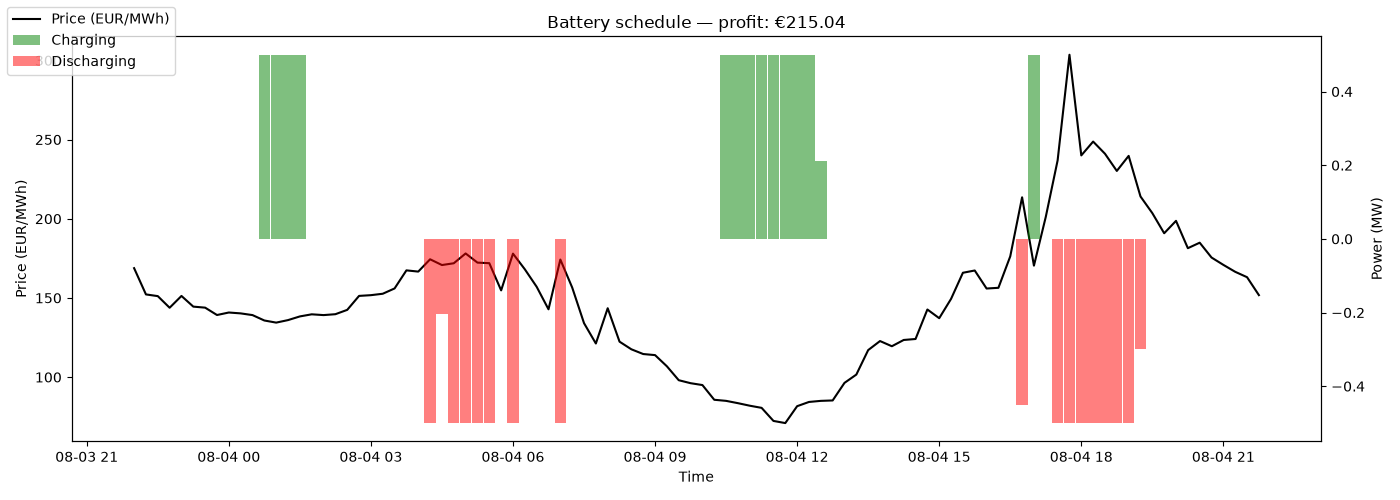
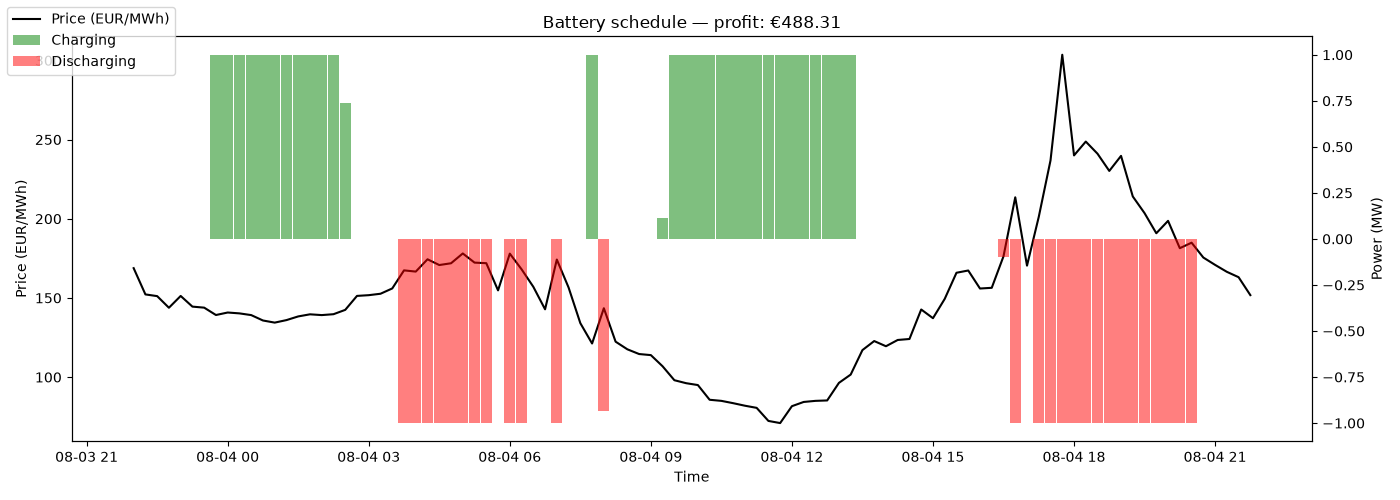
Fix start-of-day discharge, finalize battery optimization example

diff --git a/src/optimize.py b/src/optimize.py
@@ -48,6 +48,15 @@ def optimize_battery(
         A_ub.append(-row)
         b_ub.append(soc0)
 
+    # End-of-day state of charge must be >= starting state of charge,
+    # so the battery can't just drain its initial reserve for free profit —
+    # it has to earn back any energy it discharges within the same day.
+    final_row = np.zeros(n)
+    final_row[:T] = eta_ch * interval_hours
+    final_row[T:] = -interval_hours / eta_dis
+    A_ub.append(-final_row)
+    b_ub.append(0)
+
     result = linprog(
         c_obj,
         A_ub=np.array(A_ub),
@@ -73,10 +82,18 @@ if __name__ == "__main__":
 
     prices = df["price_eur_mwh"].to_numpy()
 
+    # Battery specs matching a single Tesla Megapack 2 unit
+    # (3.9 MWh capacity, ~1 MW power, ~93.7% round-trip efficiency)
+    eta_round_trip = 0.937
+    eta_one_way = eta_round_trip ** 0.5   # split evenly between charge/discharge legs
+
     charge, discharge, profit = optimize_battery(
         prices,
-        capacity_mwh=1.0,      # 1 MWh battery
-        max_power_mw=0.5,      # can charge/discharge at 0.5 MW max
+        capacity_mwh=3.9,
+        max_power_mw=1.0,
+        eta_ch=eta_one_way,
+        eta_dis=eta_one_way,
+        soc0_fraction=0.0,   # start empty, nothing to discharge until battery has charged something
     )
 
     df["charge_mw"] = charge
@@ -86,7 +103,6 @@ if __name__ == "__main__":
     print(f"\nTotal profit: €{profit:.2f}")
     print(f"Hours charging: {(charge > 0.01).sum() * 0.25:.2f}h")
     print(f"Hours discharging: {(discharge > 0.01).sum() * 0.25:.2f}h")
-
 
     fig, ax1 = plt.subplots(figsize=(14, 5))
 
